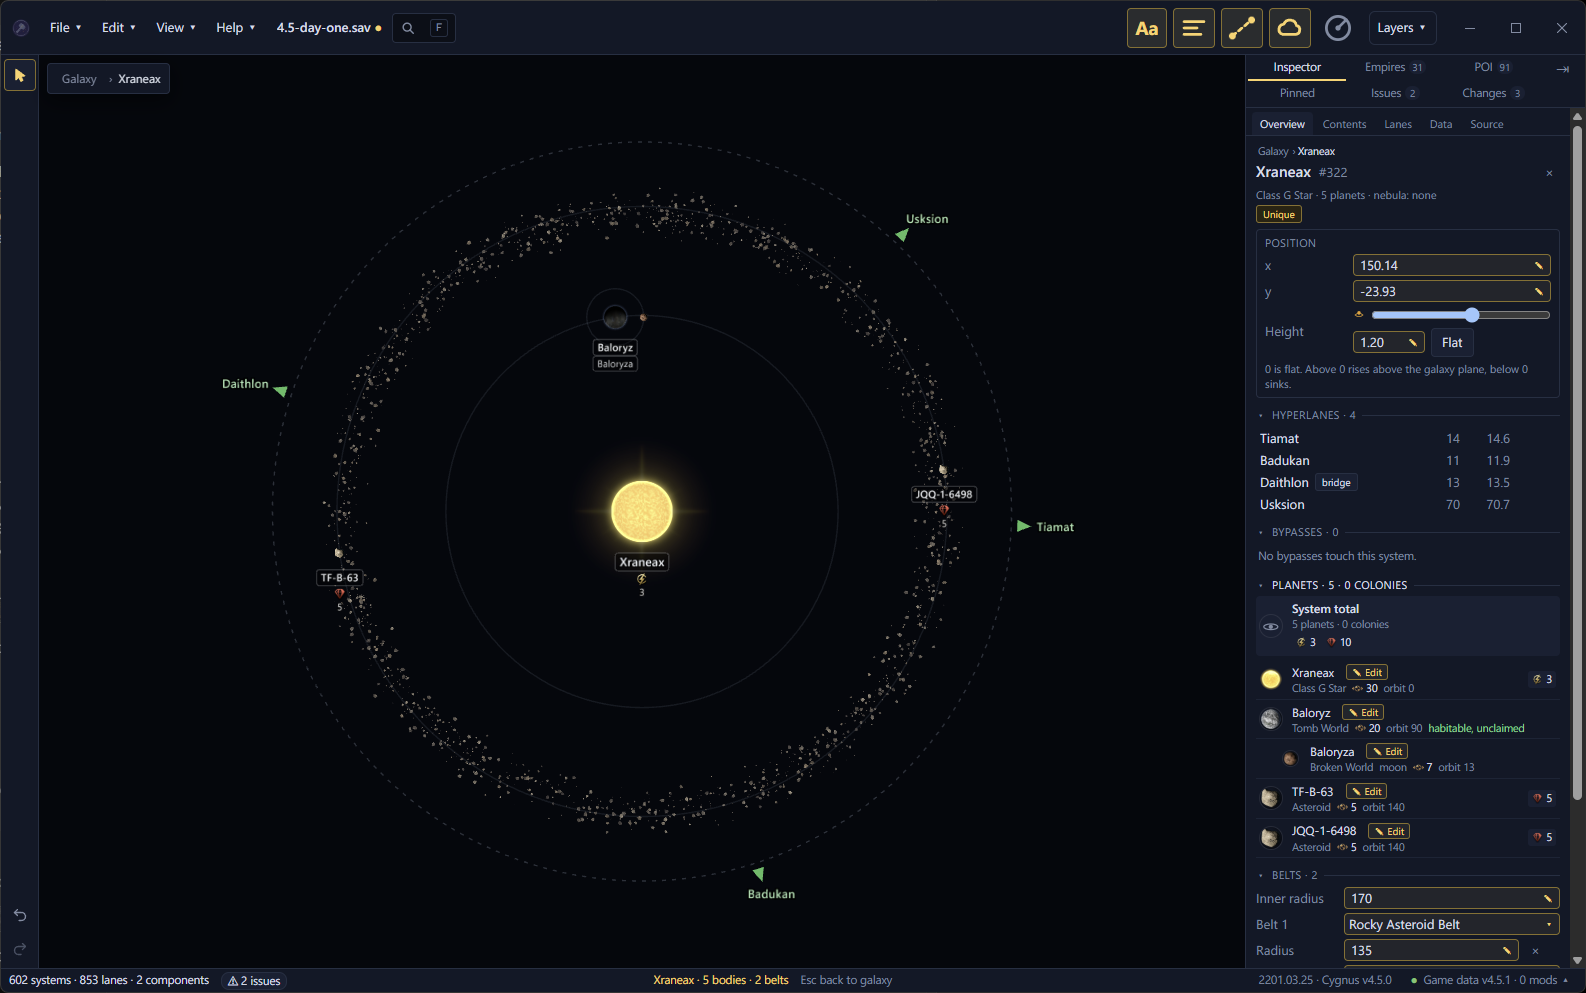
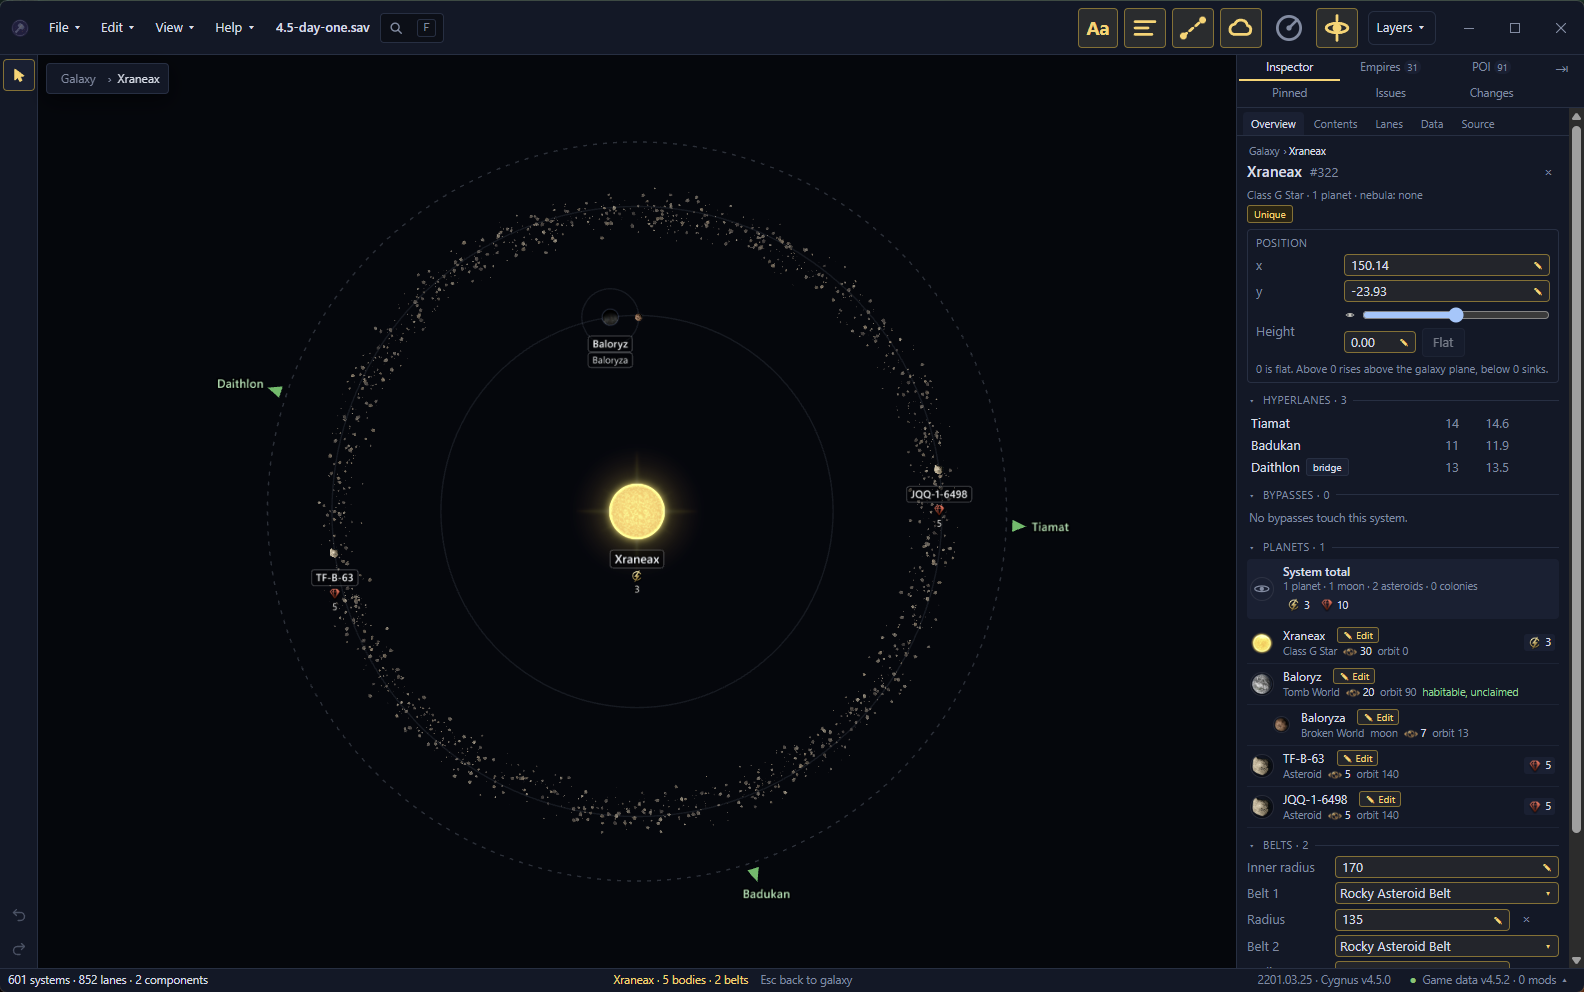
Retake the system view shot and add the megastructures shot

diff --git a/guide/images/SHOTS.md b/guide/images/SHOTS.md
@@ -18,8 +18,9 @@ pages don't need editing.
   enabled" line. Keep that state if you retake those dialogs.
 - A change not yet released is shot from `npm run tauri dev` with the
   same window, and with the game data the developer has installed.
-  `system/planet-page.png` and `scenario/scenario-system-inspector.png`
-  were taken that way, on Stellaris 4.5.2 game data.
+  `system/planet-page.png`, `scenario/scenario-system-inspector.png`,
+  `system/system-view.png` and `system/megastructures.png` were taken
+  that way, on Stellaris 4.5.2 game data.
 - The dock is 340 pixels wide. Drag its left edge to set it.
 - Saved as PNG at 1x, cropped to the part of the window the page talks
   about.
@@ -86,9 +87,9 @@ The Issues, Changes and added-system shots show those edits.
 
 | File | Page | Shows | How to take it |
 | --- | --- | --- | --- |
-| `system/system-view.png` | `system/system-view.md` | The system view with the dock | Open Xraneax #322 with nothing selected inside it. Full window. |
+| `system/system-view.png` | `system/system-view.md` | The system view with the dock | On the unedited save, open Xraneax #322 with nothing selected inside it and the Hyperlanes section open. Full window. |
 | `system/orbit-radii.png` | `system/system-view.md` | Orbit radii in a system view | On the 4.4 save, open Amory and press 2. |
-| `system/megastructures.png` | `system/system-view.md` | A system with a megastructure, drawn from its game model | On a late-game 4.5 save, open a system with a megastructure, such as one with a Dyson Sphere or a Science Nexus. Crop to the system. |
+| `system/megastructures.png` | `system/system-view.md` | A system with a megastructure, drawn from its game model | On a late-game 4.5 save, open a system with a finished Dyson Sphere with System details on, zoom in two steps past the whole system and crop to the star and its inner planets. Taken on Caehines #238 of a 4.5.2 autosave from 2333. |
 | `system/system-view-planet-selected.png` | `system/arrange-planets.md` | A selected planet with its radius line | In Xraneax, click Baloryz. |
 | `system/planet-menu.png` | `system/arrange-planets.md` | The right-click menu on a planet | In Xraneax, select Baloryz, TF-B-63 and JQQ-1-6498, then right-click Baloryz. |
 | `system/planet-page.png` | `system/planet-pages.md` | A planet's page | Click Baloryz and crop the dock. |

diff --git a/guide/system/system-view.md b/guide/system/system-view.md
@@ -152,6 +152,8 @@ its star, and an Arc Furnace rings its planet. A megastructure built on
 a planet or moon stays with it when you move the planet. Ring world
 sections turn to face their star, so the pieces of a ring world join up.
 
+![A system with a Dyson Sphere drawn from the game's model](../images/system/megastructures.png)
+
 Habitats and ring world segments are planets, and they show as their
 models from the game too. You select, move and name them as you do any
 other planet.
